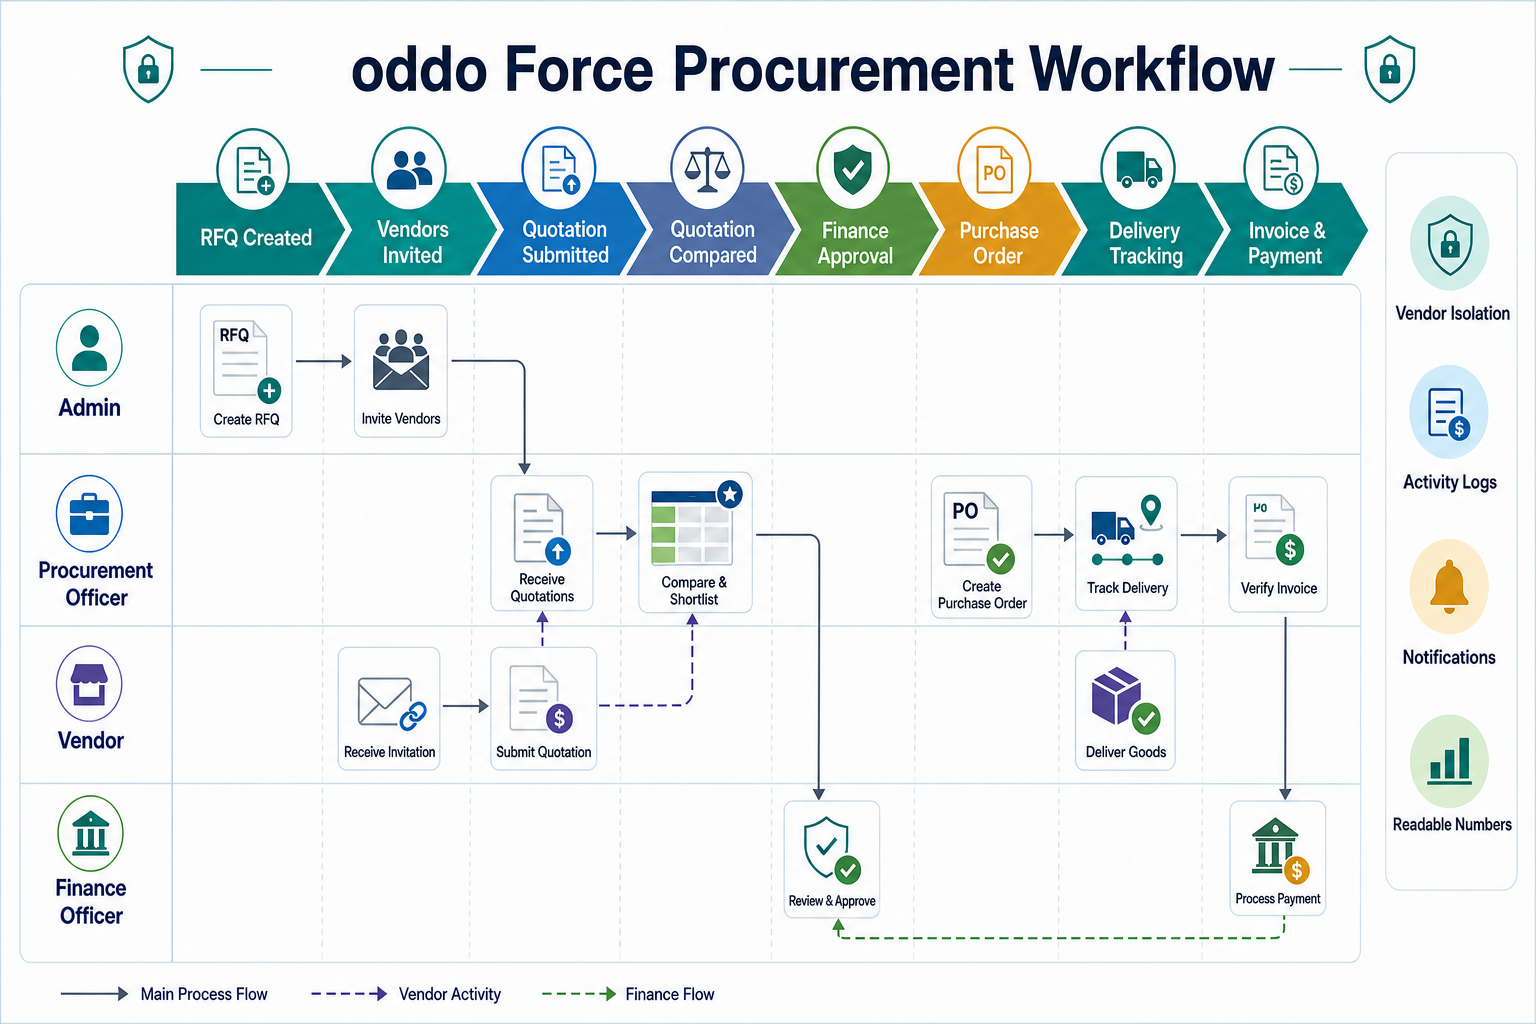
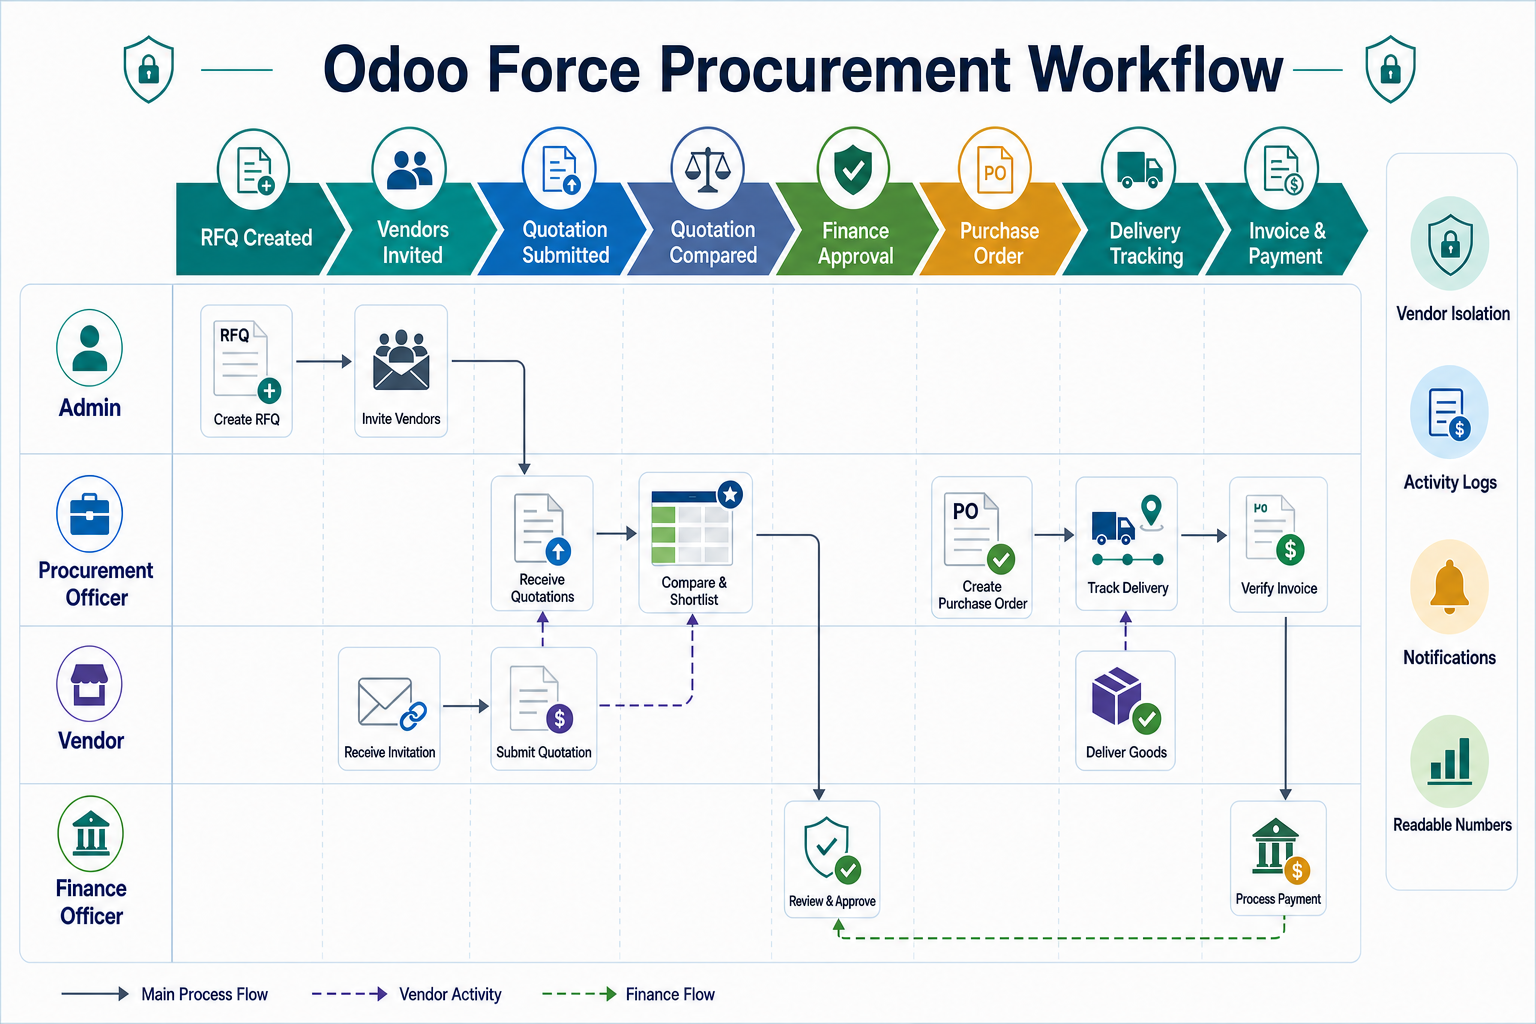
loader mogify

diff --git a/ui/redesign/loader_2/index.html b/ui/redesign/loader_2/index.html
@@ -6,12 +6,14 @@
   <title>OF Logo Loader</title>
   <style>
     :root {
-      --bg: #070707;
-      --bg-glow: radial-gradient(circle at center, rgba(229, 9, 20, .16), transparent 58%);
-      --red: #e50914;
-      --deep-red: #8b0007;
-      --line-red: #ff4d57;
-      --line-dark: #c20b14;
+      --bg: #ffffff;
+      --bg-glow: none;
+      --red: #e07d74;
+      --deep-red: #11181c;
+      --line-red: #e4887d;
+      --line-dark: #141b1f;
+      --top-fill: #ffd9b7;
+      --body-fill: #de7d73;
       --size: min(42vw, 220px);
     }
 
@@ -49,7 +51,7 @@
       position: absolute;
       inset: 0;
       background: var(--bg-glow);
-      opacity: .9;
+      opacity: 0;
       pointer-events: none;
     }
 
@@ -59,13 +61,19 @@
       width: var(--size);
       aspect-ratio: 1;
       overflow: visible;
-      filter: drop-shadow(0 0 22px rgba(229, 9, 20, .14));
+      filter: none;
     }
 
     .logo-base path {
-      fill: var(--red);
-      opacity: .18;
+      fill: var(--body-fill);
+      opacity: .13;
       animation: logoPulse 3.2s ease-in-out infinite;
+    }
+
+    .logo-base .top-left,
+    .logo-base .top-right {
+      fill: var(--top-fill);
+      opacity: .18;
     }
 
     .logo-lines .piece {
@@ -73,7 +81,7 @@
       stroke: var(--line-red);
       stroke-linecap: round;
       stroke-linejoin: miter;
-      stroke-width: 5;
+      stroke-width: 3;
       stroke-dasharray: 100;
       stroke-dashoffset: 100;
       opacity: 0;

diff --git a/ui/redesign/loader/index.html b/ui/redesign/loader/index.html
@@ -6,7 +6,7 @@
   <title>OF Logo Loader</title>
   <style>
     :root {
-      --bg: #020101;
+      
       --red: #d5675d;
       --cream: #ffd6b2;
       --size: min(44vw, 210px);
@@ -22,7 +22,7 @@
       height: 100%;
       margin: 0;
       overflow: hidden;
-      background: #000;
+
     }
 
     body {
@@ -60,9 +60,7 @@
       width: var(--size);
       aspect-ratio: 1;
       overflow: visible;
-      filter:
-        drop-shadow(0 14px 22px rgba(0, 0, 0, .68))
-        drop-shadow(0 0 16px rgba(213, 103, 93, .22));
+    
       animation: logoFloat 2.4s cubic-bezier(.4, 0, .2, 1) infinite;
     }
 
